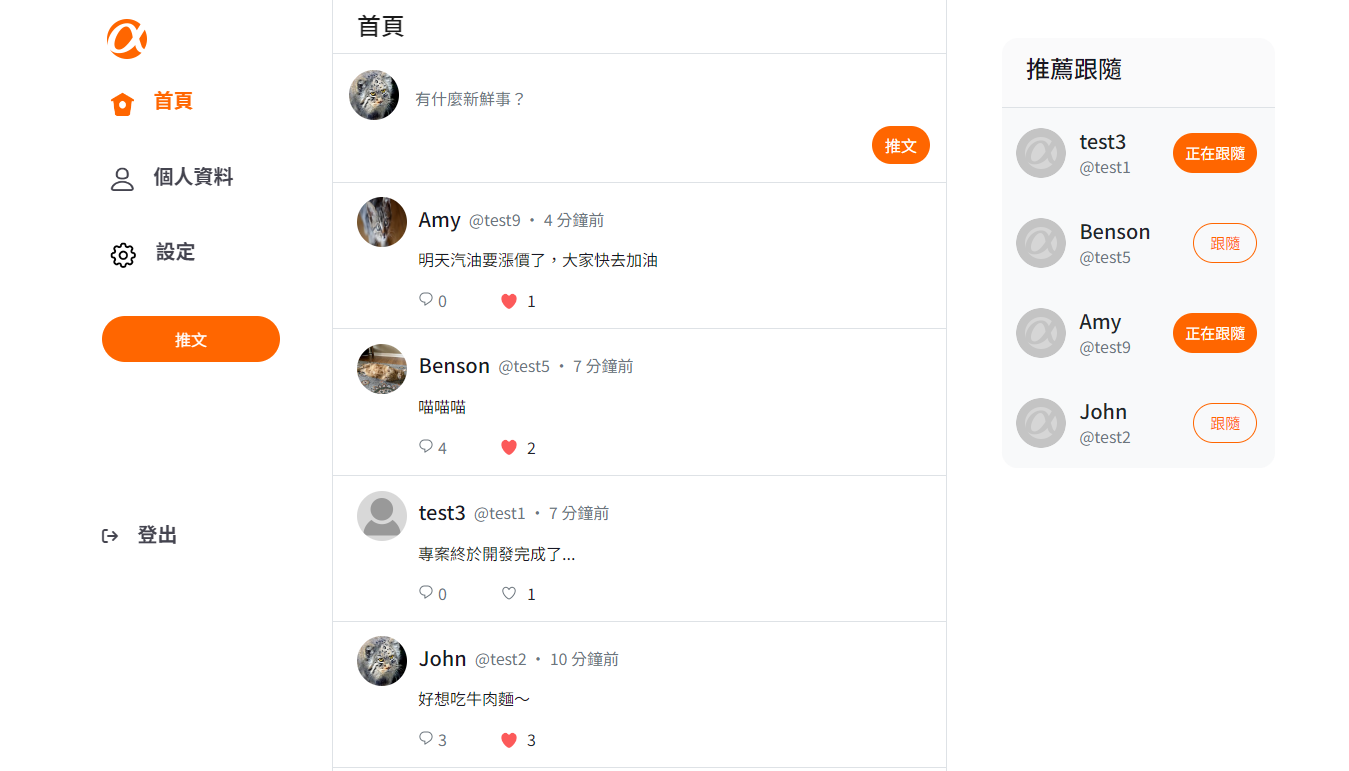
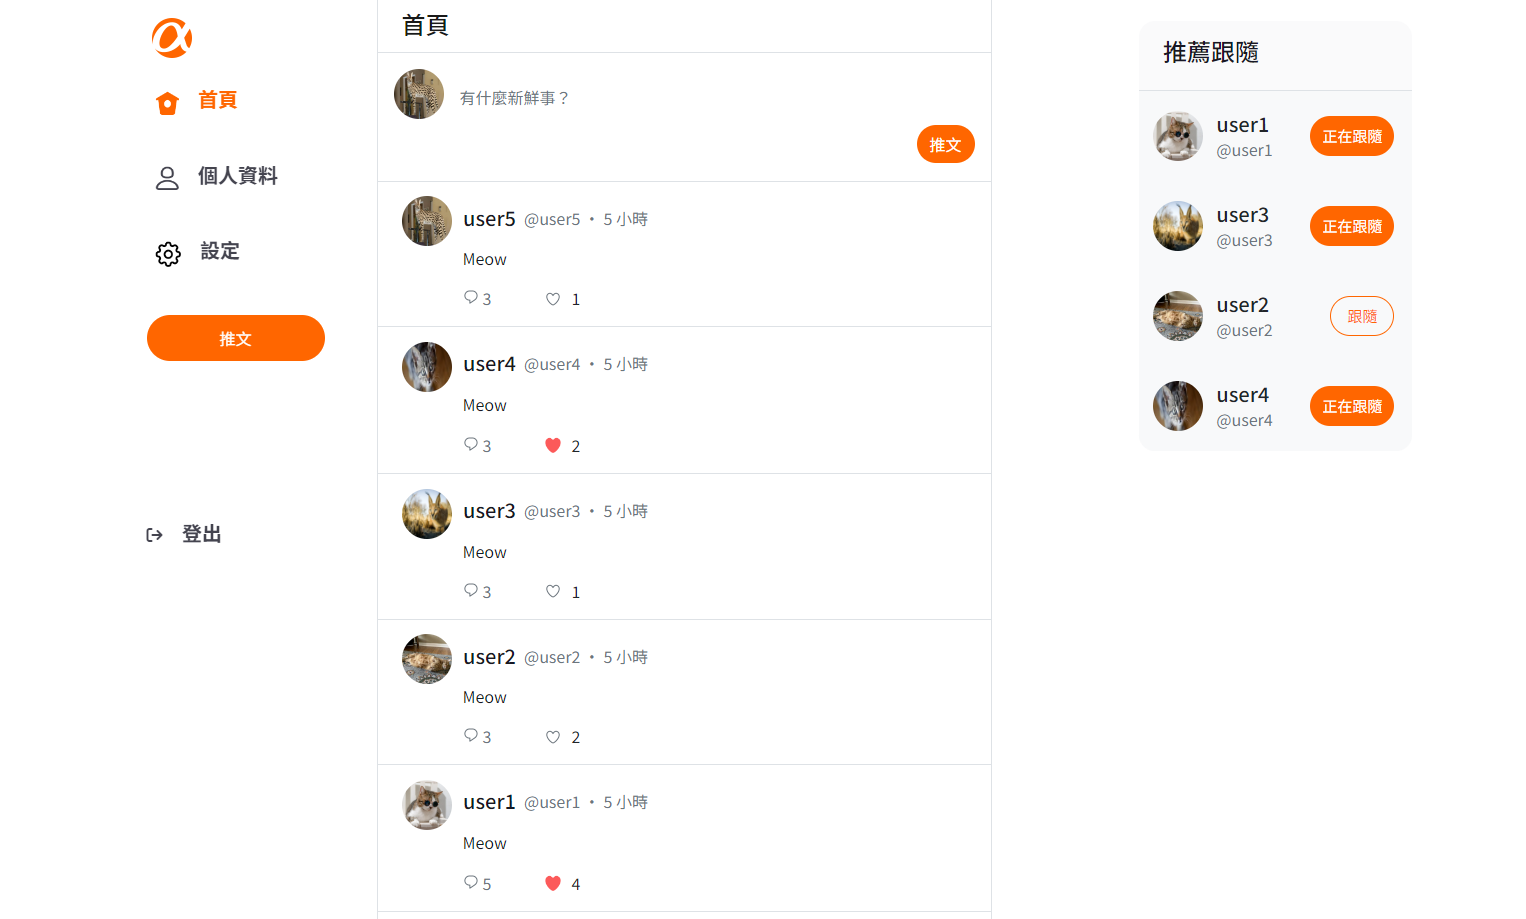
fix: homepage photo and README

diff --git a/README.md b/README.md
@@ -1,4 +1,4 @@
-# My Simple Twitter
+# Simple Twitter － Alphitter
 ![image](public/photos/homepage.png)
 **可點擊[Demo](https://mighty-tundra-17871-5d8e08ab6f3e.herokuapp.com/signin) ，查看專案預覽！**
 
